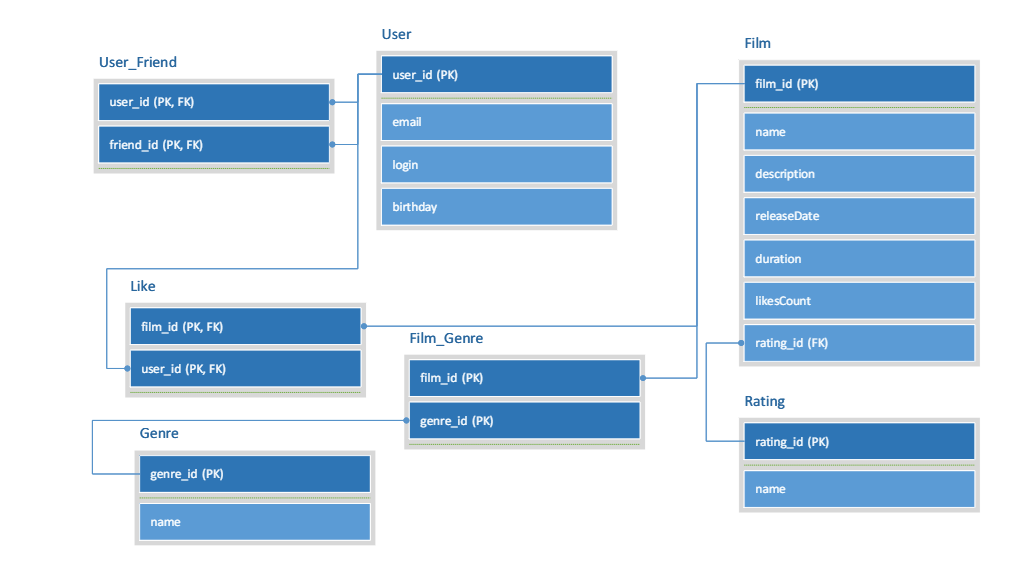
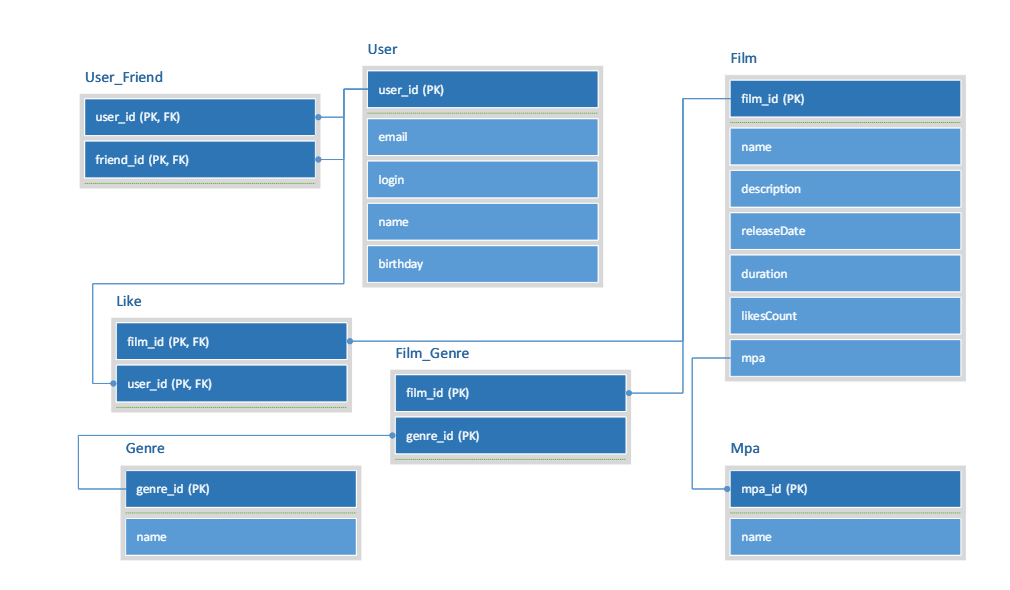
Some changes in db and models structure, add data.sql

diff --git a/src/main/java/ru/yandex/practicum/filmorate/model/Film.java b/src/main/java/ru/yandex/practicum/filmorate/model/Film.java
@@ -24,10 +24,10 @@ public class Film {
     private LocalDate releaseDate;
     @Positive(message = "Длительность не может быть отрицательной")
     private int duration;
-    private Set<Integer> likes;
+    private Set<Integer> likes = new HashSet<>();
     private int likesCount = 0;
-    private Set<Genre> genres;
-    private String rating;
+    private Set<Genre> genres = new HashSet<>();
+    private Mpa mpa;
 
     @AssertTrue(message = "Дата релиза не может быть раньше чем 28 Декабря 1895 года")
     private boolean isValidReleaseDate() {
@@ -37,10 +37,6 @@ public class Film {
     @Autowired
     public void setLikes(Set<Integer> likes) {
         this.likes = new HashSet<>(likes);
-    }
-
-    public void setGenre(Set<Genre> genres) {
-        this.genres = new HashSet<>(genres);
     }
 
     public void addLike(Integer id) {

diff --git a/src/main/java/ru/yandex/practicum/filmorate/model/User.java b/src/main/java/ru/yandex/practicum/filmorate/model/User.java
@@ -4,14 +4,15 @@ import lombok.AllArgsConstructor;
 import lombok.Data;
 
 import jakarta.validation.constraints.*;
+import lombok.NoArgsConstructor;
 
 import java.time.LocalDate;
-import java.util.HashMap;
 import java.util.HashSet;
 import java.util.Set;
 
 @Data
 @AllArgsConstructor
+@NoArgsConstructor
 public class User {
     private Integer id;
     @Email(message = "Неверный формат email")

diff --git a/src/main/java/ru/yandex/practicum/filmorate/model/Mpa.java b/src/main/java/ru/yandex/practicum/filmorate/model/Mpa.java
@@ -7,7 +7,11 @@ import lombok.NoArgsConstructor;
 @Data
 @AllArgsConstructor
 @NoArgsConstructor
-public class Rating {
+public class Mpa {
     private int id;
     private String name;
+
+    public Mpa(int id) {
+        this.id = id;
+    }
 }

diff --git a/src/main/java/ru/yandex/practicum/filmorate/model/Genre.java b/src/main/java/ru/yandex/practicum/filmorate/model/Genre.java
@@ -10,4 +10,8 @@ import lombok.NoArgsConstructor;
 public class Genre {
     private int id;
     private String name;
+
+    public Genre(Integer id) {
+        this.id = id;
+    }
 }
